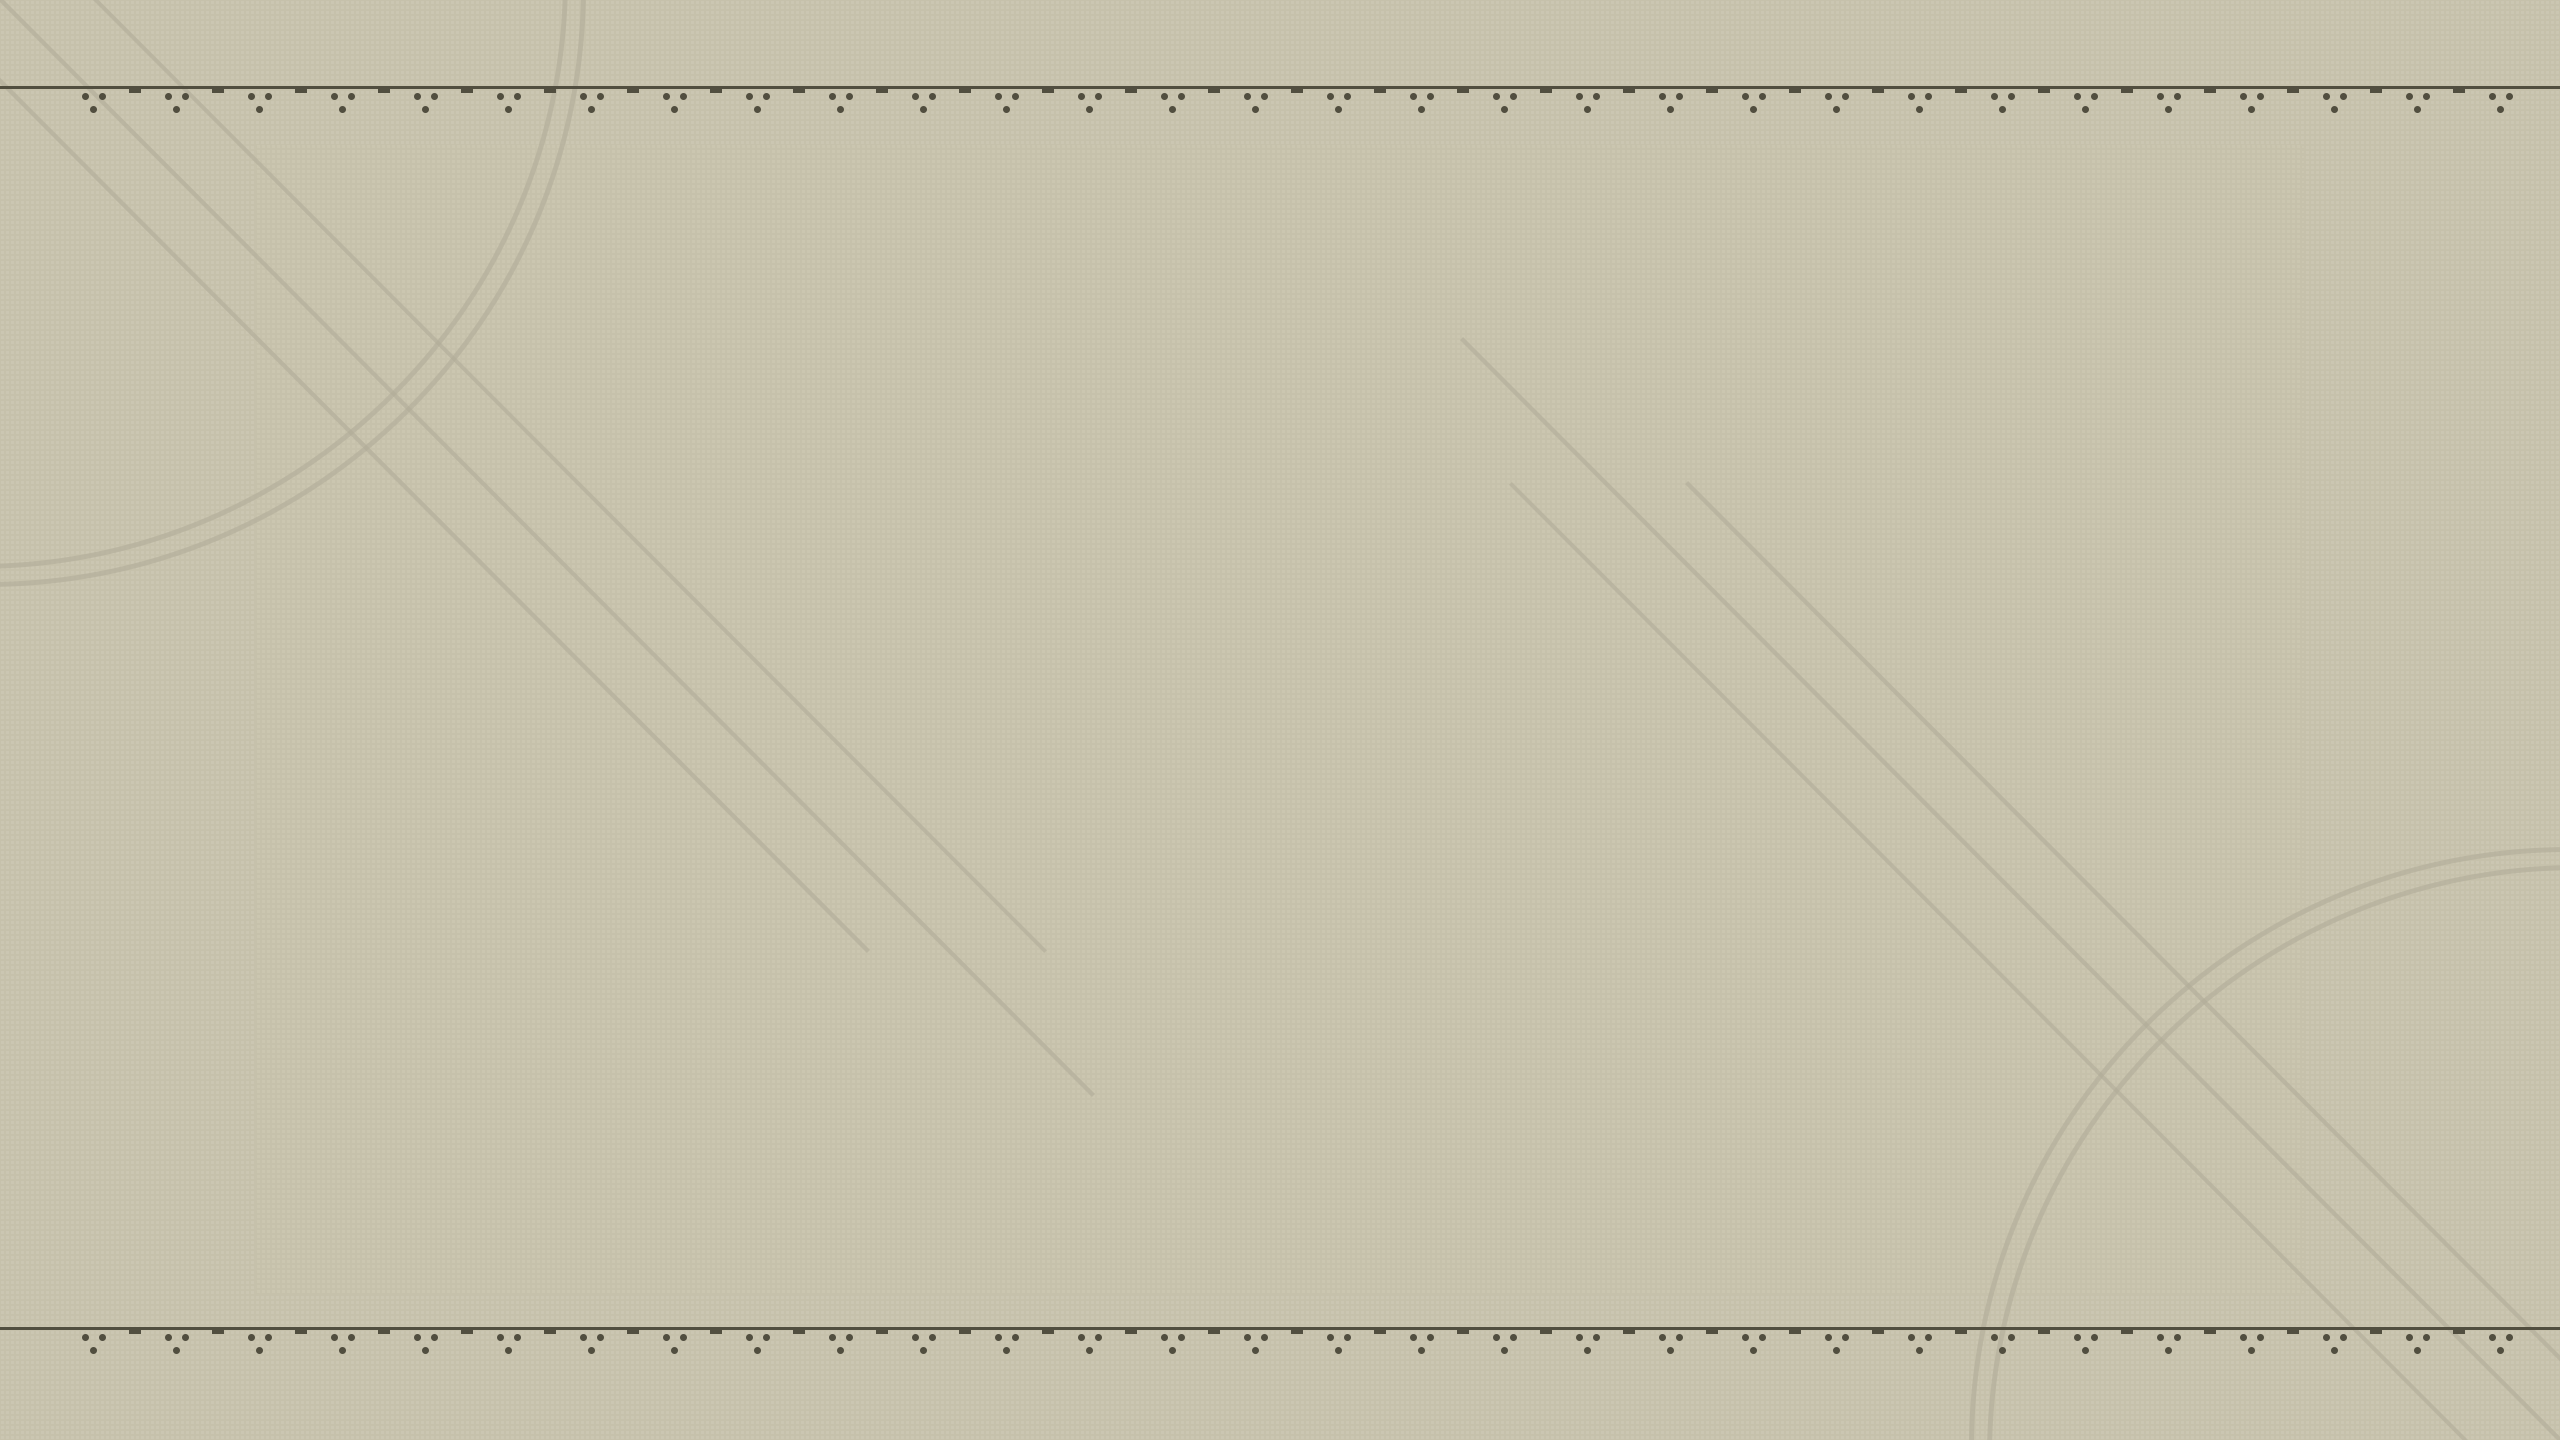
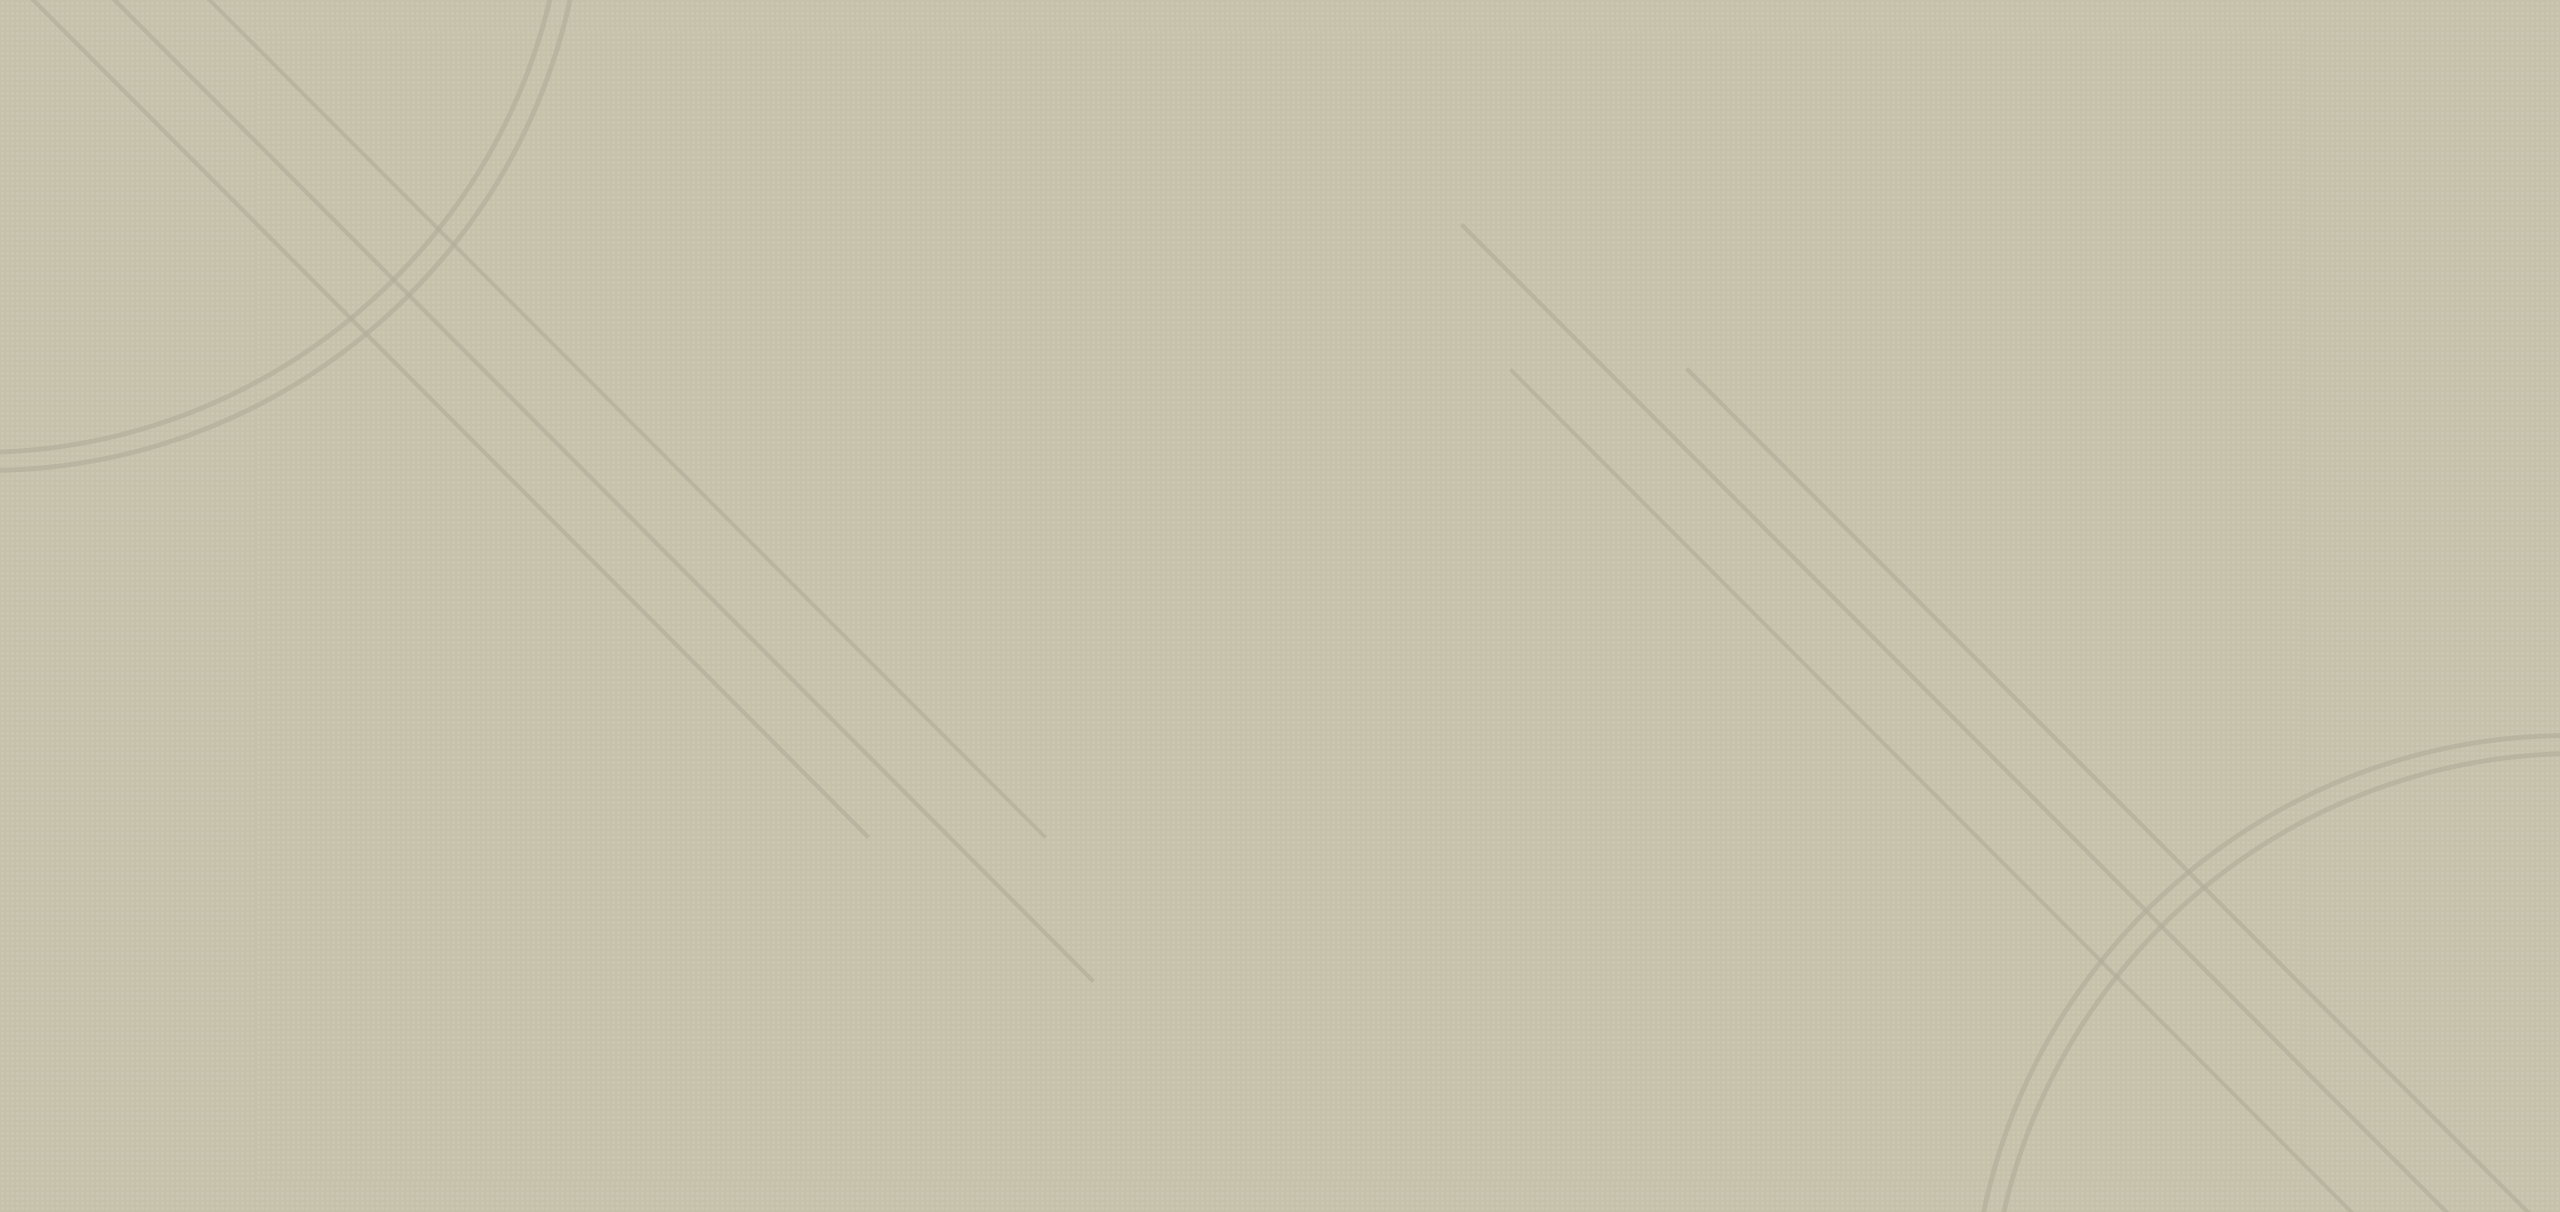
barra decorativa agregada en base a .png, falta acomodar botones cuando se hace zoom out y zoom in (se quedan muy arriba o se pegotean demasiado).

Changed region(s): [[0.0312, 0.9158, 1.0, 0.9464]]

diff --git a/css/styles.css b/css/styles.css
@@ -10,18 +10,18 @@ html, body {
   margin: 0;
   padding: 0;
   height: 100%;
+  background-image: url('../images/NieR Background PC.png');
+  background-repeat: no-repeat;         /* repite horizontalmente si hace falta */
+  background-position: center center;     /* siempre muestra la parte superior */
+  background-size: cover;               /* mantiene tamaño original */
+  background-attachment: fixed;
+  background-color: #000;    
 }
 
 .header {
   position: relative;
   width: 100vw;
-  height: 100vh;
-
-  background-image: url('../images/NieR Background PC.png');
-  background-repeat: repeat-x;         /* repite horizontalmente si hace falta */
-  background-position: top center;     /* siempre muestra la parte superior */
-  background-size: auto;               /* mantiene tamaño original */
-  background-color: #000;              /* fallback */
+  height: 100vh;          /* fallback */
 }
 
 /* Nav-bar proporcional y centrada */
@@ -39,16 +39,17 @@ html, body {
 
 .nav-button {
   flex: 1;
-  padding: clamp(0.5rem, 1vh, 2rem) clamp(0.5rem, 1vw, 2rem);
+  padding: clamp(0.5rem, 1rem, 2rem) clamp(0.5rem, 1vw, 2rem);
   font-size: clamp(0.9rem, 2vh, 1.5rem);
-  background-color: #aea78bab;  /* fondo normal */
+  background-color: #aea78be1;  /* fondo normal */
   border: none;
   outline: none;
   cursor: pointer;
-  min-width: 50px;
-  min-height: 50px;
-  max-width: 40em;
-  max-height: 60px;
+  min-width: 10vw;
+  min-height: 4vh;
+  max-width: 20vw;
+  max-height: 7vh;
+  width: 10px;
   display: flex;
   align-items: center;
   justify-content: left;
@@ -60,6 +61,7 @@ html, body {
   align-items: center;
   gap: 0.5em;
   text-decoration: none;
+  text-shadow: 0.025em 0.025em 1em black;
   color: #4D4940;               /* color normal */
   font-family: sans-serif;
   font-size: 2.5rem;
@@ -95,4 +97,14 @@ html, body {
 
 .nav-button:hover .base-img{
   display: none;
+}
+
+.decoration-below-nav {
+  position: fixed;
+  top: 10vh; /* o top: 0 si querés que esté arriba */
+  width: 100%;
+  height: 10vh; /* ajustá según el alto de tu imagen */
+  min-height: 40px;
+  background-image: url('../images/Decoration.png');
+  background-repeat: repeat-x;
 }

diff --git a/index.html b/index.html
@@ -23,6 +23,7 @@
     <button class="nav-button"><a href="#">CONNECT</a></button>
     <button class="nav-button"><a href="#">OPTIONS</a></button>
   </nav>
+  <div class="decoration-below-nav"></div>
 </header>
 </body>
 </html>
